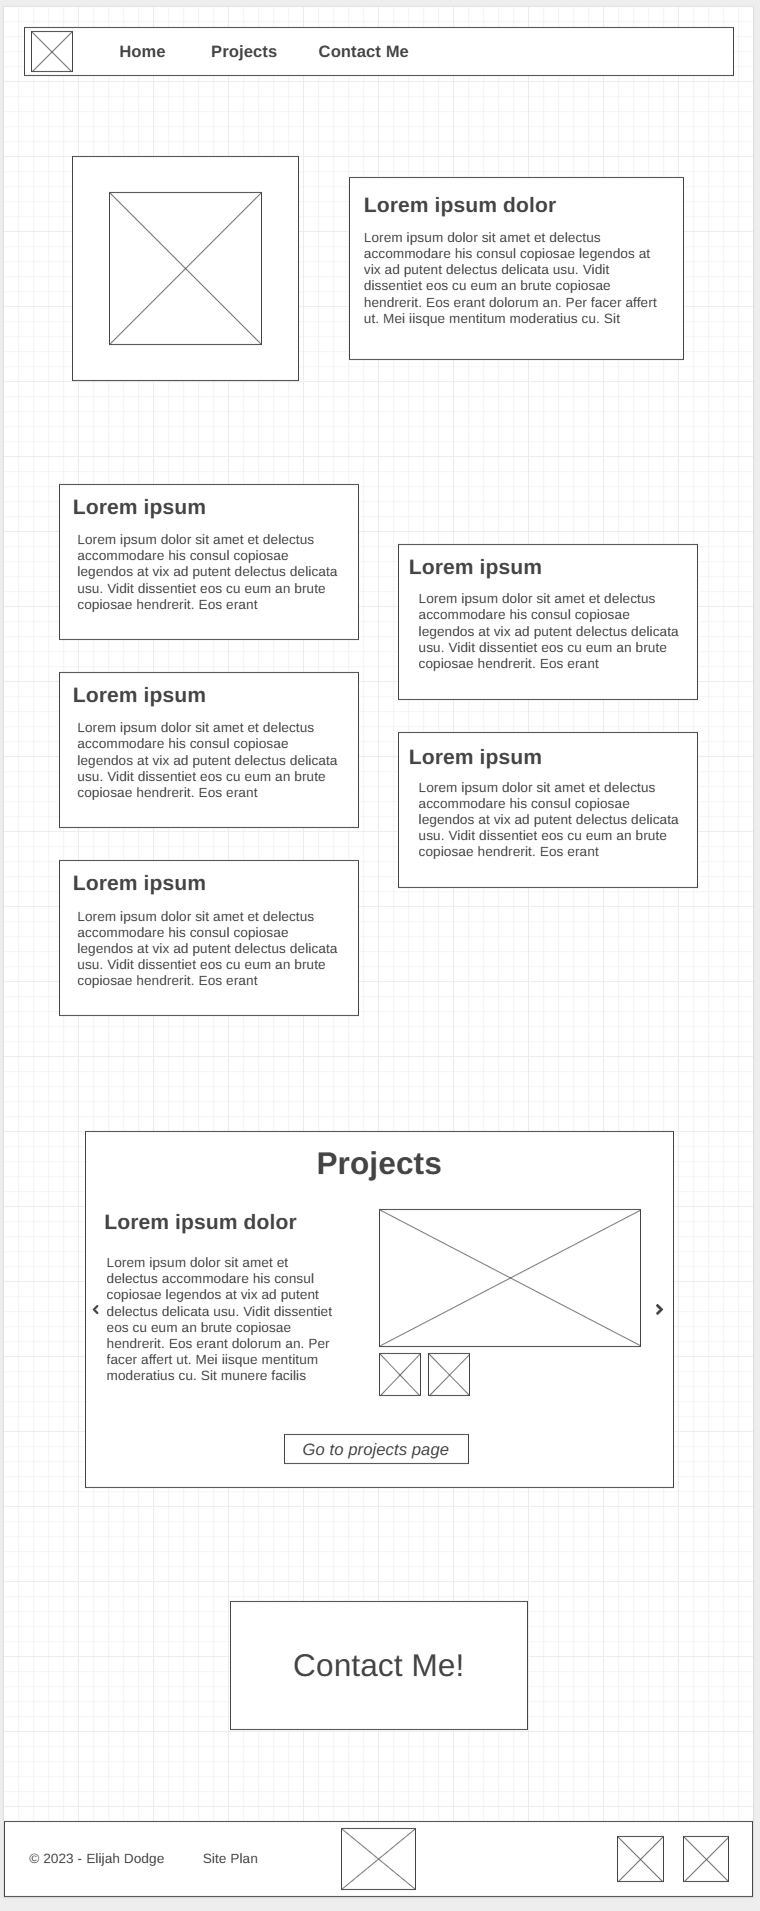
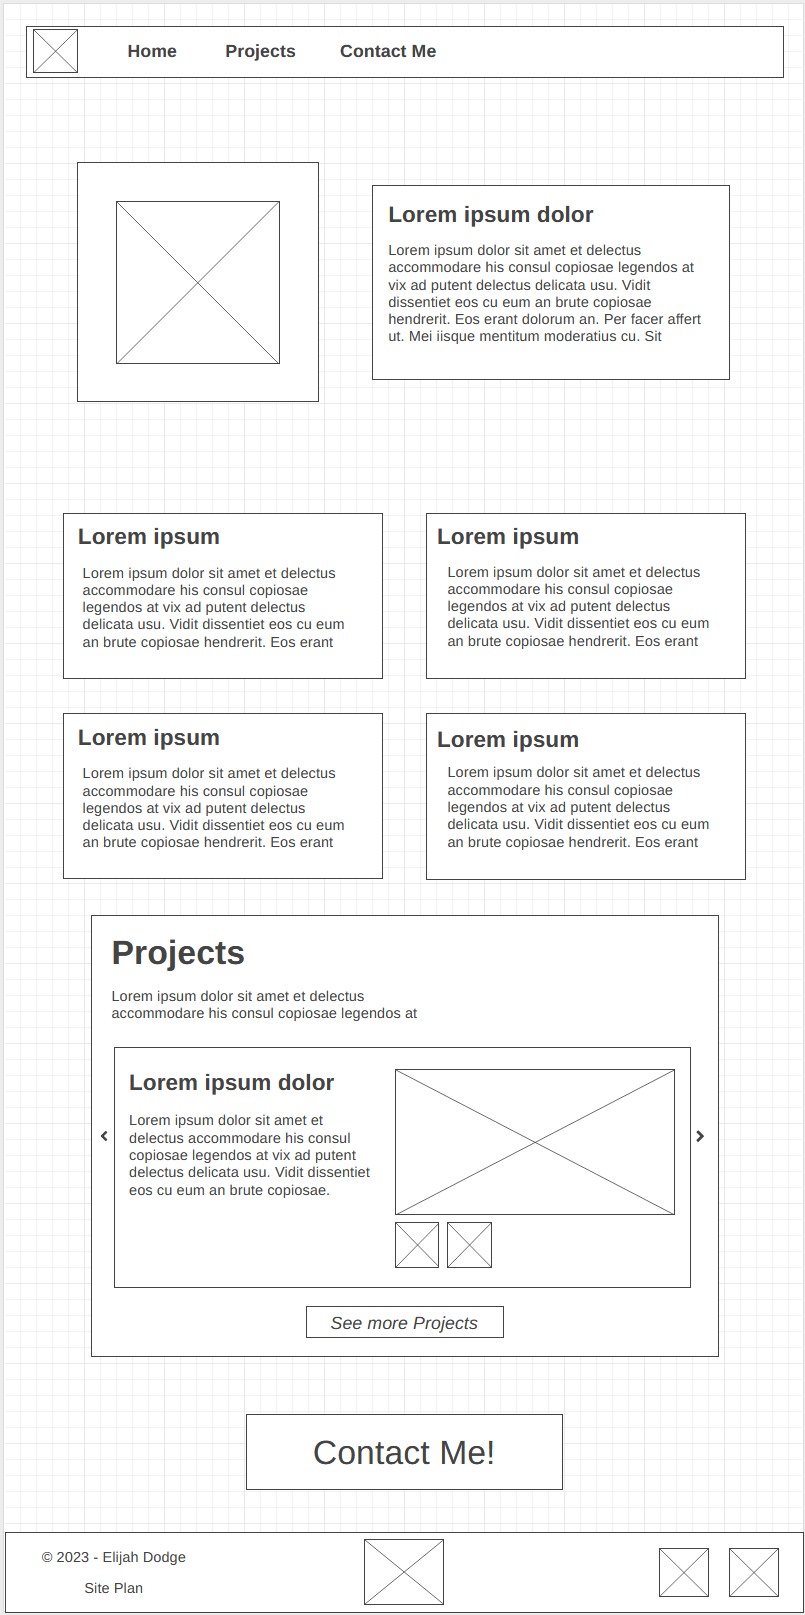
Finalizing tweaks -Projects card has 3 subcards -Special effects -Other stuff

diff --git a/projects/project-cards/silentInq.html b/projects/project-cards/silentInq.html
@@ -4,19 +4,29 @@
     <meta charset="UTF-8">
     <meta name="viewport" content="width=device-width, initial-scale=1.0">
     <link type="text/css" rel="stylesheet" href="styles/style.css" >
-    <title>easEquations</title>
+    <title>Silent Inquisition</title>
 </head>
 <body>
-    <div>
-        <h2>Silent Inquisition</h2>
-        <p>First published game.</p>
-        <img class="project-screenshot" src="../images/silentinq/screenshot.jpeg" alt="screenshot of the Windows Silent Inquisition game" >
-        <a href="https://apps.microsoft.com/store/detail/silent-inquisition/9P9GT070GNZX?hl=en-us&gl=us" target="_blank">
-            <img width="75px" src="../images/ms-store-logo.jpeg" alt="Microsoft Store logo">
-        </a>
-        <a href="git" target="blank">
-            <img src="#" alt="git logo">
-        </a>
+    <div class="content">
+        <div class="text-left">
+            <h2>Silent Inquisition</h2>
+            <p>First published game. Worked with a small team in high school as a final project during my time at Sno-Isle Tech. Built for Windows 8.1,
+                coded with the Unity Engine in C#.
+            </p>
+        </div>
+
+        <div class="content-right">
+            <img class="project-screenshot" src="../images/silentinq/screenshot.jpeg" alt="screenshot of the Windows easEquations app" >
+        
+            <div class="out-links">
+                <a href="https://apps.microsoft.com/store/detail/silent-inquisition/9P9GT070GNZX?hl=en-us&gl=us" target="_blank">
+                    <img src="../images/Microsoft_Store_icon.png" alt="Microsoft Store logo">
+                </a>
+                <a href="https://github.com/EJ6612/silentinquisition" target="blank">
+                    <img src="../images/github-mark-white.png" alt="git logo">
+                </a>
+            </div>
+        </div>
 
     </div>
 </body>

diff --git a/index.html b/index.html
@@ -61,12 +61,12 @@
         </section>
         <section class="intro-card-text" id="personal">
           <h2>Personal</h2>
-          <p>[something about me being a personal person]</p>
+          <p>Caring about those around me is a central part of my identity.</p>
         </section>
         <section class="intro-card-text" id="sociable">
           <h2>Sociable</h2>
           <p>Being distant is the opposite of who I am. I have found that being a good 
-            caring friend (with boundaries!) is needed for a good group environment.</p>
+            friend is needed for a thriving group environment.</p>
         </section>
       </div>
     
@@ -78,13 +78,13 @@
             taught me important principles that, collectively, have led me to where I am now.
           </p>
           <section>
-            <button class="project-button" id="prevButton"><img src="images/left-arrow.png" ></button>
+            <button class="project-button" id="prevButton"><img src="images/left-arrow.png"></button>
             <iframe id="projectsFrame" src="projects/project-cards/easequations.html"></iframe>
-            <button class="project-button" id="nextButton"><img src="images/right-arrow.png" ></button>
+            <button class="project-button" id="nextButton"><img src="images/right-arrow.png"></button>
             <script src="scripts/project_frame.js"></script>
           </div>
           <div class="gtp">
-            <a class="go-to-projects" href="projects/index.html">Go to Projects</a>
+            <a class="go-to-projects" href="projects/index.html">See more Projects</a>
           </div>
         </section>
       </div>     

diff --git a/projects/project-cards/cse210byui.html b/projects/project-cards/cse210byui.html
@@ -1,0 +1,29 @@
+<!DOCTYPE html>
+<html lang="en">
+<head>
+    <meta charset="UTF-8">
+    <meta name="viewport" content="width=device-width, initial-scale=1.0">
+    <link type="text/css" rel="stylesheet" href="styles/style.css" >
+    <title>Programming with Classes</title>
+</head>
+<body>
+    <div class="content">
+        <div class="text-left">
+            <h2>BYU-I | CSE 210: Progamming w/ Classes</h2>
+            <p>Projects completed when completing the college course. Done in C#.
+            </p>
+        </div>
+
+        <div class="content-right">
+            <img class="project-screenshot" src="../images/cse210byui/cse210screenshot.png" alt="screenshot of the Windows easEquations app" >
+        
+            <div class="out-links">
+                <a href="https://github.com/EJ6612/cse210-projects" target="_blank">
+                    <img src="../images/github-mark-white.png" alt="GitHub logo">
+                </a>
+            </div>
+        </div>
+
+    </div>
+</body>
+</html>

diff --git a/projects/project-cards/easequations.html b/projects/project-cards/easequations.html
@@ -25,9 +25,6 @@
                 <a href="https://apps.microsoft.com/store/detail/easequations-math-made-easy/9PL68PBZLGR5?hl=en-us&gl=us" target="_blank">
                     <img src="../images/Microsoft_Store_icon.png" alt="Microsoft Store logo">
                 </a>
-                <a href="git" target="blank">
-                    <img src="../images/github-mark-white.png" alt="git logo">
-                </a>
             </div>
         </div>
 

diff --git a/scripts/project_frame.js b/scripts/project_frame.js
@@ -8,7 +8,8 @@ const nextButton = document.getElementById('nextButton');
 // Define an array of source URLs for the iframe
 const sources = [
   'projects/project-cards/easequations.html',
-  'projects/project-cards/silentInq.html',
+  'projects/project-cards/cse210byui.html',
+  'projects/project-cards/silentInq.html'
   // Add more URLs as needed
 ];
 

diff --git a/styles/style.css b/styles/style.css
@@ -194,4 +194,6 @@ p {
 
 .contact-me-home:hover {
     background-color: #1B7ECC;
+    transform: scale(1.1);
+    box-shadow: 0px 2px 15px rgb(22, 22, 22);
 }
